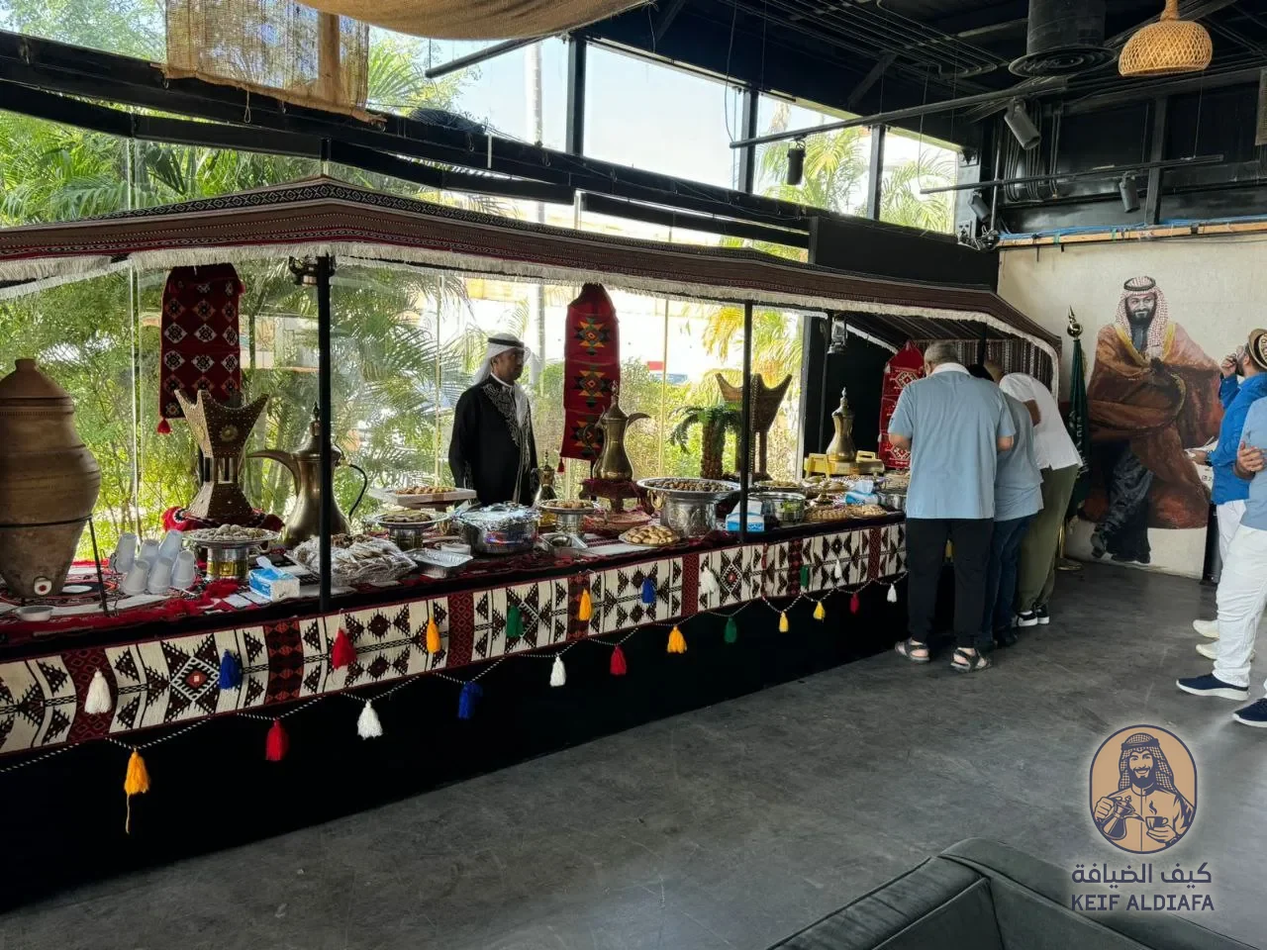
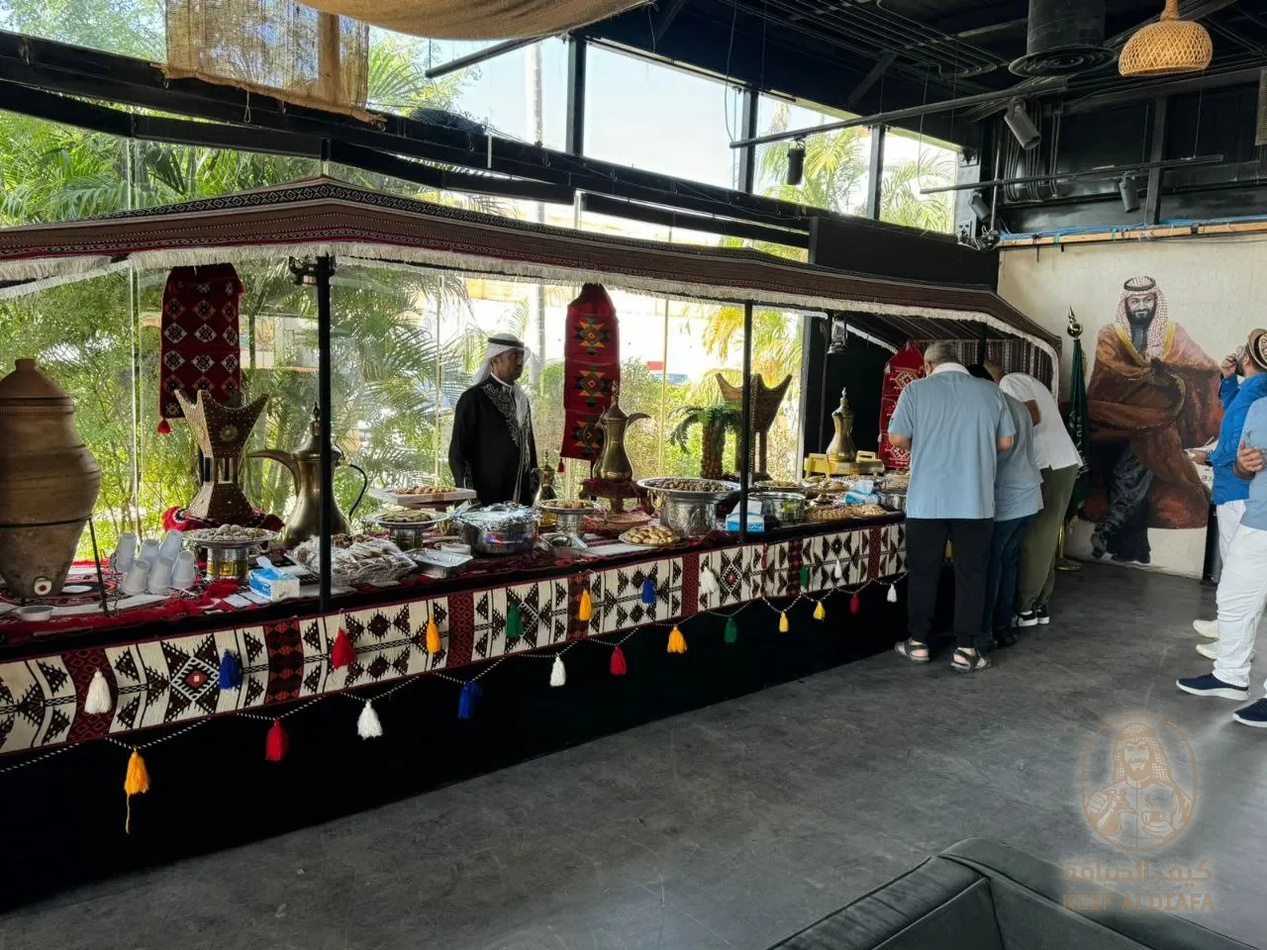
luxe(sub-pages): ضغط الطول ١٣٫١ ← ١٢٫٢ شاشة + تصحيح حرارة الصور + علامة مائية منقوشة

Changed region(s): [[0.8125, 0.75, 0.9688, 0.9688]]

diff --git a/src/lib/localContent.tsx b/src/lib/localContent.tsx
@@ -81,17 +81,27 @@ export function getLocalContent(service: string, cityKey: string): {
     ? `✓ حجز خلال دقائق ✓ زيّ رسمي موحّد ✓ خبرة +500 مناسبة في ${c.ar}. قهوجيين ومباشرين لخدمة كبار الضيوف بالمؤتمرات والمجالس. ردّ فوري — واتساب ${WA_DISPLAY}`
     : `✓ طاقم سعودي بزيّ تراثي ✓ قهوة ودلال وتمر ضمن الخدمة ✓ صبابات للمناسبات النسائية. نغطي كل أحياء ${c.ar}. اطلب ترتيب مناسبتك — واتساب ${WA_DISPLAY}`;
 
+  /* ═══════════════════════════════════════════════════════════════════
+     المقدّمة — جملتان لا جدار
+     ------------------------------------------------------------------
+     القياس: الشاشة الثانية كانت 7 أسطر متّصلة (539px) قبل أوّل صورة.
+     العميل على الهاتف لا يقرأ جداراً؛ يمسحه بعينه ويكمل نزولاً. لذلك
+     الآن: جملة تُعرّف الخدمة + المدينة (للفهرسة)، ثم جملة المدينة
+     الجغرافية. أمّا الجمل المحذوفة («خبرتنا تجعلنا الخيار الأول»…)
+     فكانت إعادة تأكيد لا معلومة، وكلماتها المفتاحية موجودة أصلاً في
+     الـh1 والأقسام والأسئلة — فالفهرسة لا تخسر حرفاً.
+     ═══════════════════════════════════════════════════════════════════ */
   const intro = isMunasabat
-    ? `نوفّر خدمة ضيافة مناسبات في ${c.ar} بجودة فاخرة تشمل تجهيز الأعراس والمؤتمرات والفعاليات الرسمية والخاصة. فريق «كيف الضيافة» يصل إليك بمعدّات كاملة وطاقم مدرّب بزيّ لائق يقدّم القهوة العربية والتقديمات الراقية على الأصول. ${c.intro} نجمع بين الأصالة والانضباط لنكون خيارك الأول لضيافة المناسبات في ${c.ar}.`
+    ? `ضيافة مناسبات فاخرة في ${c.ar} للأعراس والمؤتمرات والفعاليات الرسمية — نصل بمعدّاتنا كاملة وطاقم بزيّ لائق. ${c.intro}`
     : isQahwajiin
-    ? `نوفّر قهوجيين ومباشرين في ${c.ar} بزيّ رسمي أنيق لخدمة كبار الضيوف في الفعاليات الرسمية والمؤتمرات ومجالس الأعيان. القهوجي عندنا ليس مجرّد صبّاب؛ بل منظّم للضيافة يدير تقديم القهوة والتمر بين الضيوف بانضباط وبروتوكول VIP. ${c.intro} إذا كنت تبحث عن قهوجي أو مباشرين في ${c.ar} بمظهر رسمي يليق بمناسبتك، ففريقنا الخيار الأمثل.`
-    : `نوفّر خدمة صبابين قهوة سعوديين في ${c.ar} باحترافية عالية لخدمة الأعراس والمؤتمرات والمناسبات الخاصة. صبّابونا بزيّ سعودي تراثي يقدّمون القهوة العربية الأصيلة من دلال نحاسية على الأصول، مع تمر فاخر وفناجين منقوشة، ونوفّر صبابات للمناسبات النسائية. ${c.intro} خبرتنا تجعلنا الخيار الأول لمن يبحث عن صبابين قهوة سعوديين في ${c.ar} يجمعون بين الأصالة والمظهر اللائق.`;
+    ? `قهوجيين ومباشرين في ${c.ar} بزيّ رسمي لخدمة كبار الضيوف في المؤتمرات والمجالس ببروتوكول VIP. ${c.intro}`
+    : `صبابين قهوة سعوديين في ${c.ar} بزيّ تراثي، يصبّون القهوة العربية من دلال نحاسية على الأصول — ونوفّر صبابات للمناسبات النسائية. ${c.intro}`;
 
   const sections = isQahwajiin
     ? [
         {
           h2: `قهوجيين بزيّ رسمي للفعاليات الرسمية في ${c.ar}`,
-          body: `قهوجيونا في ${c.ar} مدرّبون على بروتوكول الفعاليات الرسمية ومجالس كبار الضيوف: مظهر أنيق، انضباط في الحركة، وتقديم القهوة العربية من اليمين وبالترتيب وفق الأصول. مثاليون للمؤتمرات والمعارض والاستقبالات الحكومية.`,
+          body: `مدرّبون على بروتوكول الفعاليات الرسمية ومجالس كبار الضيوف: مظهر أنيق، انضباط في الحركة، وتقديم القهوة من اليمين وبالترتيب. مثاليون لمؤتمرات ${c.ar} والاستقبالات الحكومية.`,
           img: imgs[1]?.src,
           imgAlt: `قهوجي بزيّ رسمي يقدّم القهوة العربية في فعالية رسمية ب${c.ar}`,
         },
@@ -112,13 +122,13 @@ export function getLocalContent(service: string, cityKey: string): {
     ? [
         {
           h2: `تجهيز ضيافة الأعراس والحفلات في ${c.ar}`,
-          body: `نتولّى ضيافة أعراسك وحفلاتك في ${c.ar} من الألف إلى الياء: استقبال الضيوف، تقديم القهوة العربية والشاي، التوزيعات الفاخرة، وتنسيق ركن ضيافة أنيق يليق بليلة العمر. طاقمنا يعمل بانضباط وذوق رفيع بحيث تتفرّغ أنت لضيوفك ونحن نتكفّل بكل التفاصيل.`,
+          body: `نتولّى عرسك في ${c.ar} من الألف إلى الياء: استقبال الضيوف، القهوة العربية والشاي، التوزيعات الفاخرة، وركن ضيافة أنيق يليق بليلة العمر — تتفرّغ أنت لضيوفك.`,
           img: imgs[1]?.src,
           imgAlt: `تجهيز ضيافة عرس فاخر ب${c.ar}`,
         },
         {
           h2: `ضيافة المؤتمرات والفعاليات الرسمية في ${c.ar}`,
-          body: `نخدم مؤتمرات وفعاليات الشركات والجهات الحكومية في ${c.ar} ببروتوكول VIP: قهوجيون ومباشرون بزيّ رسمي، تقديم منظّم للقهوة والتمر، ومعدّات ضيافة فاخرة. نلتزم بالمواعيد وننسّق مع منظّمي الفعالية لأدق التفاصيل.`,
+          body: `مؤتمرات الشركات والجهات الحكومية في ${c.ar} ببروتوكول VIP: قهوجيون بزيّ رسمي، تقديم منظّم للقهوة والتمر، ومعدّات فاخرة — وتنسيق مسبق مع منظّم الفعالية.`,
           img: imgs[2]?.src,
           imgAlt: `ضيافة مؤتمر وفعالية رسمية ب${c.ar}`,
         },
@@ -132,19 +142,19 @@ export function getLocalContent(service: string, cityKey: string): {
     : [
         {
           h2: `صبابين قهوة وقهوجيين بزيّ سعودي تراثي في ${c.ar}`,
-          body: `يقدّم صبّابونا وقهوجيونا في ${c.ar} القهوة العربية الأصيلة على الأصول: من الدلّة النحاسية إلى الفنجان المنقوش، مع الالتزام بآداب التقديم من اليمين وبالترتيب. زيّ سعودي تراثي مطرّز ومظهر لائق يليق بكبار ضيوفك.`,
+          body: `القهوة العربية على الأصول في ${c.ar}: من الدلّة النحاسية إلى الفنجان المنقوش، بآداب التقديم من اليمين وبالترتيب — وزيّ سعودي تراثي مطرّز يليق بكبار ضيوفك.`,
           img: imgs[1]?.src,
           imgAlt: `صبّاب قهوة بزيّ سعودي تراثي يقدّم القهوة العربية ب${c.ar}`,
         },
         {
           h2: `مباشرين وصبابات للمناسبات النسائية في ${c.ar}`,
-          body: `نوفّر فريقاً نسائياً من القهوجيات والصبابات والمباشرات بزيّ مرتّب لخدمة المناسبات النسائية في ${c.ar} بكل خصوصية واحترافية، إضافة إلى المباشرين لتنظيم تقديم الضيافة بين الضيوف بسلاسة.`,
+          body: `فريق نسائي كامل من القهوجيات والصبابات والمباشرات بزيّ مرتّب، لمناسبات ${c.ar} النسائية بخصوصية تامّة.`,
           img: imgs[2]?.src,
           imgAlt: `صبابات ومباشرات قهوة للمناسبات النسائية ب${c.ar}`,
         },
         {
           h2: `القهوة والتمر والأدوات — ضيافة متكاملة`,
-          body: `الخدمة الكاملة تشمل القهوة العربية الطازجة، التمر الفاخر، الدلال والفناجين، وعدّة التقديم الذهبية — بحيث تحصل على ضيافة متكاملة في ${c.ar} دون أن تشغل بالك بأي تفصيل.`,
+          body: `الخدمة تشمل القهوة الطازجة والتمر الفاخر والدلال والفناجين وعدّة التقديم الذهبية — ضيافة متكاملة في ${c.ar} بلا تفصيل يشغل بالك.`,
           img: imgs[3]?.src,
           imgAlt: `دلال قهوة نحاسية وتمر فاخر لضيافة متكاملة ب${c.ar}`,
         },

diff --git a/src/components/LocalServicePage.tsx b/src/components/LocalServicePage.tsx
@@ -229,7 +229,7 @@ export default function LocalServicePage(props: LocalServicePageProps) {
             الدلّة قصّة شفّافة تطفو بلا صندوق (لا مربّع أبيض حول جسم).
             القياس أثبت أن كل صور المعدّات ذات الخلفية البيضاء أو الكحلية
             تُقرأ داخل صفحة بنّية داكنة كعطب لا كصورة منتج. */}
-        <section className="pt-14 sm:pt-20 grid md:grid-cols-[1.55fr_1fr] gap-8 md:gap-12 items-center">
+        <section className="pt-10 sm:pt-20 grid md:grid-cols-[1.55fr_1fr] gap-6 md:gap-12 items-center">
           <div data-rise>
             <p className="lx-eyebrow">
               <IconDallah className="w-4 h-4" />
@@ -254,7 +254,7 @@ export default function LocalServicePage(props: LocalServicePageProps) {
         {/* ══════════════ 3 — الأقسام النصية بإطارات ثلاثية الأبعاد ══════════════
             الإطارات تتبادل جهة الميل مع تبادل ترتيب الأعمدة، فيتولّد
             إيقاع بصري: العين تنزل متعرّجة لا مستقيمة. */}
-        <div className="space-y-16 sm:space-y-24">
+        <div className="space-y-12 sm:space-y-24">
           {props.sections.map((s, i) => {
             const shot = art.sections[i];
             const flip = i % 2 === 1;
@@ -332,6 +332,10 @@ export default function LocalServicePage(props: LocalServicePageProps) {
                         sizes="(max-width:640px) 100vw, (max-width:1024px) 50vw, 33vw"
                         className="object-cover"
                       />
+                      {/* حجاب النبرة: العين رصدت أن ls-veil يُعتم الأسفل فقط،
+                          فيبقى أعلى صورة القاعة (سطوعها 135/255) ساطعاً
+                          مقابل البوفيه تحتها — فتُقرأ البطاقتان من مصدرين. */}
+                      <span aria-hidden="true" className="ls-tone" />
                       <span aria-hidden="true" className="ls-veil" />
                       <span aria-hidden="true" className="ls-idx">
                         {ROMAN[pi] ?? pi + 1}
@@ -411,16 +415,16 @@ export default function LocalServicePage(props: LocalServicePageProps) {
             لماذا تختارنا في <em>{props.cityAr}</em>
           </Head>
 
-          <div className="mt-8 grid sm:grid-cols-2 gap-4">
+          <div className="mt-7 grid grid-cols-2 gap-2.5 sm:gap-4">
             {props.whyUs.map((w, wi) => {
               const Ico = WHY_ICONS[wi % WHY_ICONS.length];
               return (
-                <div key={w} className="lx-lift flex items-start gap-3.5 p-4 sm:p-5" data-rise>
+                <div key={w} className="lx-lift flex flex-col sm:flex-row items-start gap-2 sm:gap-3.5 p-3.5 sm:p-5" data-rise>
                   <span className="lx-medal" aria-hidden="true">
                     <i />
                     <Ico className="w-4 h-4" />
                   </span>
-                  <p className="text-sm sm:text-[0.95rem] leading-relaxed text-[color:var(--lx-cream-75)] pt-2">
+                  <p className="text-[0.8rem] sm:text-[0.95rem] leading-snug sm:leading-relaxed text-[color:var(--lx-cream-75)] sm:pt-2">
                     {w}
                   </p>
                 </div>
@@ -478,7 +482,7 @@ export default function LocalServicePage(props: LocalServicePageProps) {
         </section>
 
         {/* ══════════════ 9 — الأحياء (إشارة جغرافية) ══════════════ */}
-        <section className="mt-16">
+        <section className="mt-14">
           <Head eyebrow="تغطيتنا" icon={<IconPin className="w-4 h-4" />}>
             نصل إليك في كل <em>{props.cityAr}</em>
           </Head>
@@ -493,7 +497,7 @@ export default function LocalServicePage(props: LocalServicePageProps) {
 
         {/* ══════════════ 10 — النداء الأخير ══════════════
             هدف الصفحة كلها: أن يتواصل. لذلك آخر ما يراه زرّان لا نصّ. */}
-        <section className="mt-16 sm:mt-24">
+        <section className="mt-14 sm:mt-24">
           <div className="ls-band" data-rise3d>
             <p className="lx-eyebrow justify-center">
               <IconDallah className="w-4 h-4" />
@@ -520,7 +524,7 @@ export default function LocalServicePage(props: LocalServicePageProps) {
 
         {/* ══════════════ 11 — مدن أخرى (ربط داخلي) ══════════════ */}
         {props.otherCities.length > 0 && (
-          <section className="mt-16 pb-16 border-t border-[color:var(--lx-hair-soft)] pt-10">
+          <section className="mt-14 pb-6 border-t border-[color:var(--lx-hair-soft)] pt-8">
             <h2 className="lx-kicker mb-5">{props.serviceAr} في مدن أخرى</h2>
             <div className="flex flex-wrap gap-2.5">
               {props.otherCities.map((c) => (

diff --git a/src/styles/luxe.css b/src/styles/luxe.css
@@ -94,7 +94,8 @@
   align-items: center;
   justify-content: center;
   gap: 0.85rem;
-  margin-block: clamp(2.25rem, 5vw, 3.5rem);
+  /* 6 فواصل × (36px×2) = 432px على الهاتف. الإيقاع يبقى، الهواء يُضبط. */
+  margin-block: clamp(1.6rem, 4vw, 3.25rem);
 }
 .lx-orn::before,
 .lx-orn::after {
@@ -158,8 +159,12 @@
 
 .lx-lead {
   color: var(--lx-cream-75);
-  line-height: 1.95;
+  /* 1.95 كان يمنح كل فقرة ضعف ارتفاعها الضروري: 519 كلمة أنتجت 11088px.
+     العربية تحتاج هواءً أكثر من اللاتينية، لكن 1.78 لا يزال مريحاً
+     ويحرّر ~9% من طول كل كتلة نصّية في الصفحة. */
+  line-height: 1.78;
   font-size: clamp(0.95rem, 2.4vw, 1.06rem);
+  text-wrap: pretty;
 }
 
 /* ═══════════════ البطاقة ═══════════════ */
@@ -880,7 +885,11 @@ body:has(.luxe) a[href*="wa.me"][class*="25D366"] svg { color: var(--lx-gold-hi)
 /* 3+4) إضاءة الحافة والظلّ السفلي على الجسم نفسه */
 .lx-obj img {
   object-fit: contain;
+  /* القياس: الدلّة الذهبية 226/255 لوما وميلها أزرق (228/226/224) —
+     أسطع جسم في الصفحة كلها. ولأنها قصّة شفّافة لا يجوز تركيب حجاب
+     فوقها (سيظهر مستطيلاً حول الجسم)، فالتدريج يدخل داخل الـfilter. */
   filter:
+    brightness(0.93) saturate(1.12) sepia(0.1) hue-rotate(-6deg)
     drop-shadow(0 -1px 0 rgba(255, 244, 224, 0.34))
     drop-shadow(0 1px 0 rgba(255, 233, 199, 0.22))
     drop-shadow(0 20px 26px rgba(0, 0, 0, 0.62));
@@ -892,7 +901,10 @@ body:has(.luxe) a[href*="wa.me"][class*="25D366"] svg { color: var(--lx-gold-hi)
 .lx-obj:focus-visible img,
 .lx-obj:active img {
   transform: translateY(-9px) scale(1.035);
+  /* التدريج يُكرَّر هنا حرفياً: filter يُعاد تعريفه بالكامل لا يُضاف
+     إليه، فإسقاطه كان يُقفز الجسم إلى سطوعه الأصلي عند أول لمسة. */
   filter:
+    brightness(0.93) saturate(1.12) sepia(0.1) hue-rotate(-6deg)
     drop-shadow(0 -1px 0 rgba(255, 244, 224, 0.5))
     drop-shadow(0 1px 0 rgba(255, 233, 199, 0.3))
     drop-shadow(0 30px 34px rgba(0, 0, 0, 0.7));

diff --git a/src/components/Footer.tsx b/src/components/Footer.tsx
@@ -33,7 +33,7 @@ export default function Footer() {
         }}
       />
       <div className="relative max-w-7xl mx-auto px-6">
-        <div className="grid grid-cols-1 md:grid-cols-4 gap-10 mb-12">
+        <div className="grid grid-cols-1 md:grid-cols-4 gap-7 md:gap-10 mb-8 md:mb-12">
           {/* Brand Info */}
           <div className="md:col-span-2">
             <div className="flex items-center gap-3 mb-5">
@@ -97,7 +97,7 @@ export default function Footer() {
             >
               خدماتنا في مدن المملكة
             </h3>
-            <ul className="space-y-2 max-h-56 overflow-y-auto pr-1" style={{ scrollbarWidth: "thin" }}>
+            <ul className="space-y-1.5 max-h-44 md:max-h-56 overflow-y-auto pr-1" style={{ scrollbarWidth: "thin" }}>
               {LOCAL_PAGES.map((p) => {
                 const c = SC_CITIES[p.city];
                 const s = SC_SERVICES[p.service];
@@ -151,7 +151,7 @@ export default function Footer() {
           whileInView={{ opacity: 1, y: 0 }}
           viewport={{ once: true, margin: "-50px" }}
           transition={{ duration: 0.6 }}
-          className="py-8 mb-6 flex flex-col items-center gap-6"
+          className="py-6 mb-4 flex flex-col items-center gap-5"
           style={{ borderTop: "1px solid rgba(184,134,11,0.08)", borderBottom: "1px solid rgba(184,134,11,0.08)" }}
         >
           <p className="text-[#B8860B] text-xs" style={{ letterSpacing: "0.15em", fontWeight: 600 }}>شهادات التوثيق والاعتماد</p>

diff --git a/src/styles/local.css b/src/styles/local.css
@@ -206,7 +206,13 @@
      صفحة بنّية داكنة كثقوب بيضاء لا كصور. هذا يخفض السطوع الأعلى،
      ويميل الأبيض نحو ذهبي الصفحة، ويرفع التشبّع قليلاً كي يبقى
      الطعام شهيّاً. */
-  filter: brightness(0.9) contrast(1.07) saturate(1.1) sepia(0.09);
+  /* إضافة هذه الجولة: قياس متوسط RGB لكل ملف كشف أن 4 صور أزرقُها
+     ≥ أحمرها (dallah-dhahabiya 228/226/224 · dallah-fidhiya 179/179/189
+     · fanajeel 137/136/143 · nakhla-tamr 206/204/195) — أي ميل أزرق
+     فعلي داخل صفحة بنّية. sepia وحدها لا تعكس ميلاً أزرقَ، فيلزم
+     hue-rotate سالب يدفع الطيف نحو الكهرماني. */
+  filter: brightness(0.9) contrast(1.07) saturate(1.14)
+          sepia(0.12) hue-rotate(-8deg);
 }
 /* حجاب دافئ خفيف داخل كل إطار — يوحّد حرارة اللون بين صورة قاعة ذهبية
    وصورة تمر على خلفية بيضاء، فتُقرأ الصفحة كمجموعة واحدة. */
